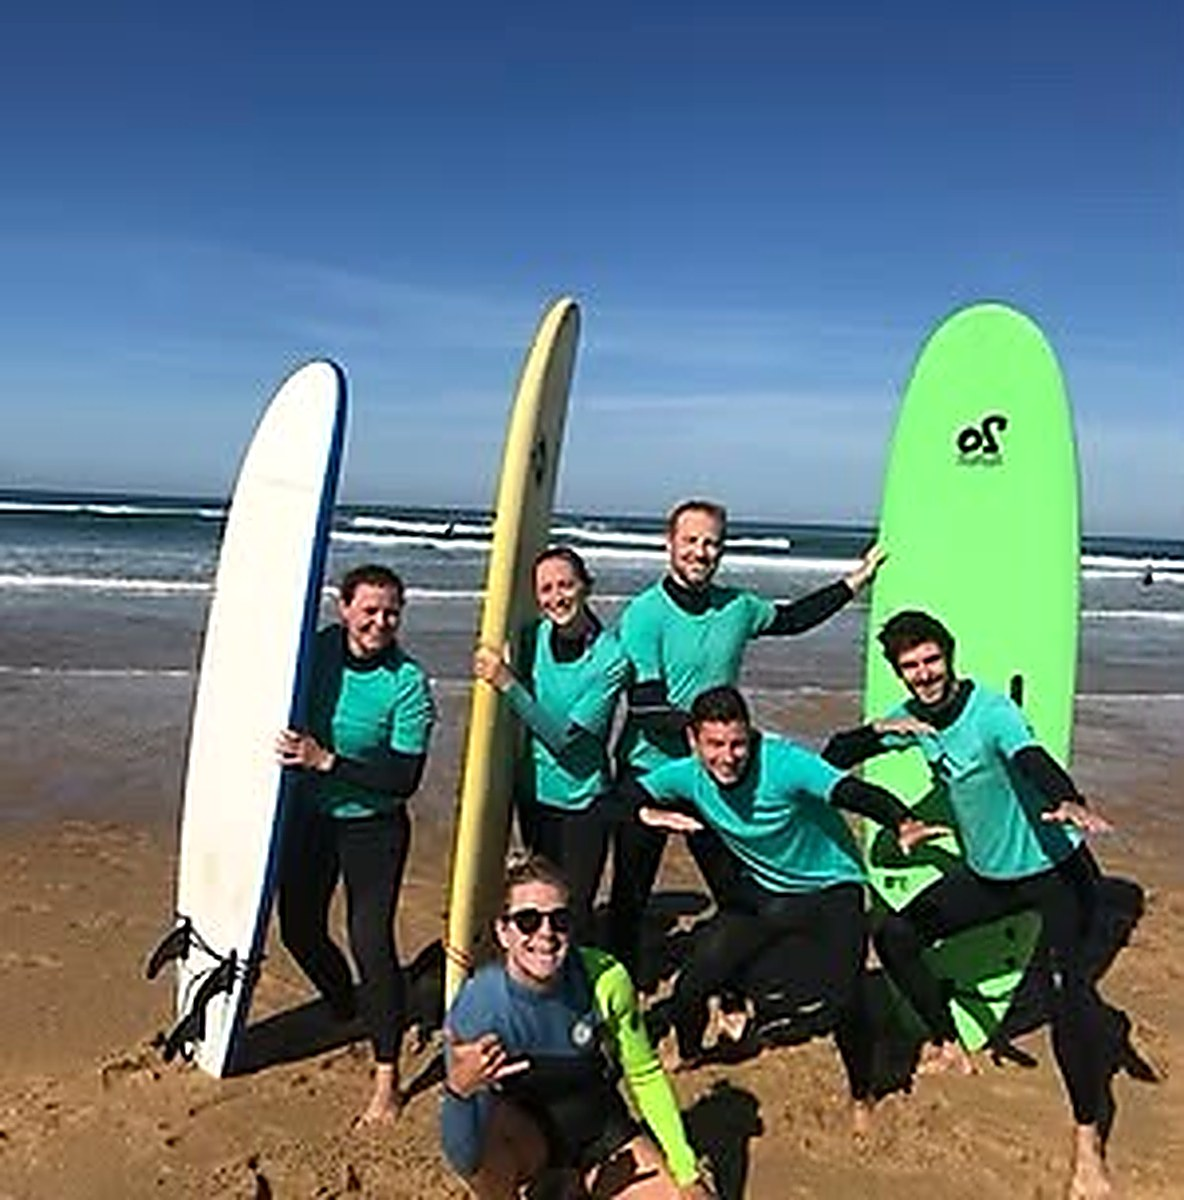
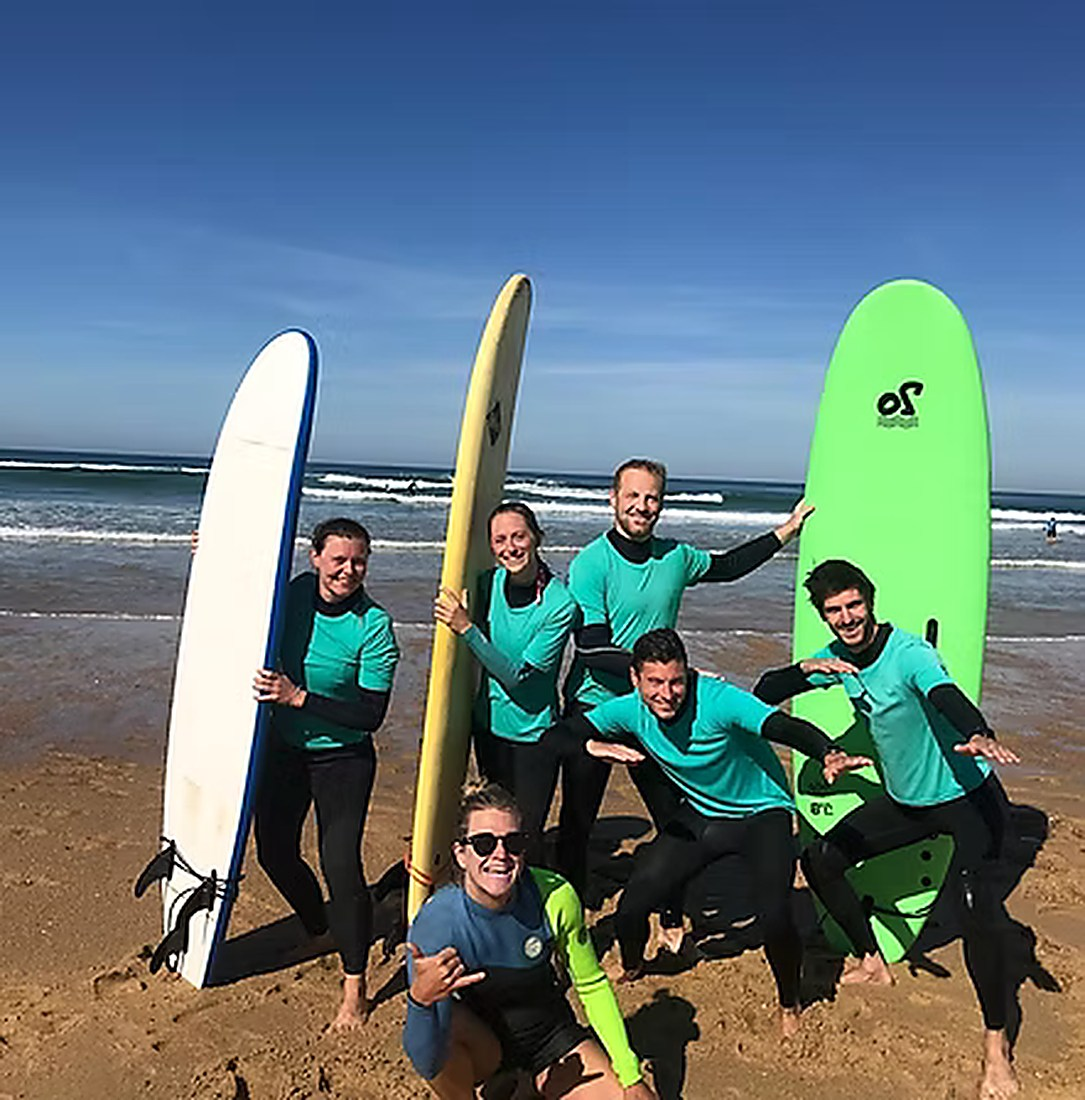
Higher-res owner photos: hi-res carousel (1440px from Wix), Deluxe from Wix original

diff --git a/de/index.html b/de/index.html
@@ -108,7 +108,7 @@
     <div class="hero-media">
       <div class="hero-slides">
         <img class="hs-group" src="../assets/images/real-group.jpg" alt="Schüler der Coco Surf School blicken auf den Ozean bei Seignosse" width="1440" height="1440" fetchpriority="high" decoding="async" style="object-position:30% center">
-        <img src="../assets/images/real-carousel-kids.jpg" alt="" width="1400" height="1053" loading="lazy" decoding="async">
+        <img src="../assets/images/real-carousel-kids.jpg" alt="" width="1440" height="755" loading="lazy" decoding="async">
         <img src="../assets/images/owner-hero-3.png" alt="" width="1448" height="1086" loading="lazy" decoding="async">
       </div>
       <div class="hero-badge"><span class="dot">🌊</span><span><b>Meerblick</b><span>Seignosse &amp; Hossegor</span></span></div>

diff --git a/en/index.html b/en/index.html
@@ -108,7 +108,7 @@
     <div class="hero-media">
       <div class="hero-slides">
         <img class="hs-group" src="../assets/images/real-group.jpg" alt="Coco Surf School students facing the ocean at Seignosse" width="1440" height="1440" fetchpriority="high" decoding="async" style="object-position:30% center">
-        <img src="../assets/images/real-carousel-kids.jpg" alt="" width="1400" height="1053" loading="lazy" decoding="async">
+        <img src="../assets/images/real-carousel-kids.jpg" alt="" width="1440" height="755" loading="lazy" decoding="async">
         <img src="../assets/images/owner-hero-3.png" alt="" width="1448" height="1086" loading="lazy" decoding="async">
       </div>
       <div class="hero-badge"><span class="dot">🌊</span><span><b>Ocean view</b><span>Seignosse &amp; Hossegor</span></span></div>

diff --git a/es/index.html b/es/index.html
@@ -108,7 +108,7 @@
     <div class="hero-media">
       <div class="hero-slides">
         <img class="hs-group" src="../assets/images/real-group.jpg" alt="Alumnos de Coco Surf School frente al océano en Seignosse" width="1440" height="1440" fetchpriority="high" decoding="async" style="object-position:30% center">
-        <img src="../assets/images/real-carousel-kids.jpg" alt="" width="1400" height="1053" loading="lazy" decoding="async">
+        <img src="../assets/images/real-carousel-kids.jpg" alt="" width="1440" height="755" loading="lazy" decoding="async">
         <img src="../assets/images/owner-hero-3.png" alt="" width="1448" height="1086" loading="lazy" decoding="async">
       </div>
       <div class="hero-badge"><span class="dot">🌊</span><span><b>Vista al mar</b><span>Seignosse &amp; Hossegor</span></span></div>

diff --git a/fr/index.html b/fr/index.html
@@ -108,7 +108,7 @@
     <div class="hero-media">
       <div class="hero-slides">
         <img class="hs-group" src="../assets/images/real-group.jpg" alt="Élèves de Coco Surf School face à l’océan à Seignosse" width="1440" height="1440" fetchpriority="high" decoding="async" style="object-position:30% center">
-        <img src="../assets/images/real-carousel-kids.jpg" alt="" width="1400" height="1053" loading="lazy" decoding="async">
+        <img src="../assets/images/real-carousel-kids.jpg" alt="" width="1440" height="755" loading="lazy" decoding="async">
         <img src="../assets/images/owner-hero-3.png" alt="" width="1448" height="1086" loading="lazy" decoding="async">
       </div>
       <div class="hero-badge"><span class="dot">🌊</span><span><b>Vue sur mer</b><span>Seignosse &amp; Hossegor</span></span></div>

diff --git a/nl/index.html b/nl/index.html
@@ -108,7 +108,7 @@
     <div class="hero-media">
       <div class="hero-slides">
         <img class="hs-group" src="../assets/images/real-group.jpg" alt="Leerlingen van Coco Surf School kijken uit over de oceaan in Seignosse" width="1440" height="1440" fetchpriority="high" decoding="async" style="object-position:30% center">
-        <img src="../assets/images/real-carousel-kids.jpg" alt="" width="1400" height="1053" loading="lazy" decoding="async">
+        <img src="../assets/images/real-carousel-kids.jpg" alt="" width="1440" height="755" loading="lazy" decoding="async">
         <img src="../assets/images/owner-hero-3.png" alt="" width="1448" height="1086" loading="lazy" decoding="async">
       </div>
       <div class="hero-badge"><span class="dot">🌊</span><span><b>Zeezicht</b><span>Seignosse &amp; Hossegor</span></span></div>